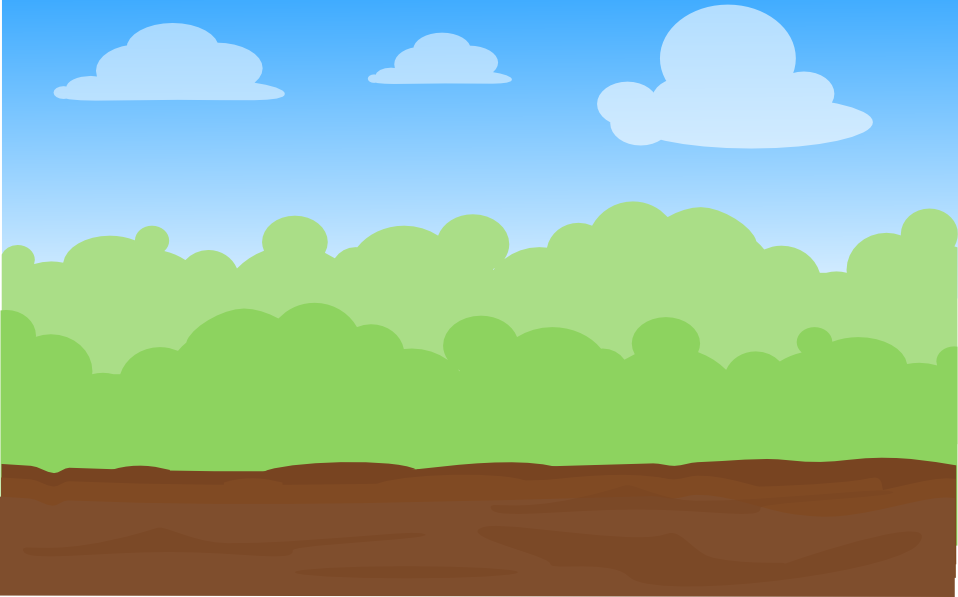
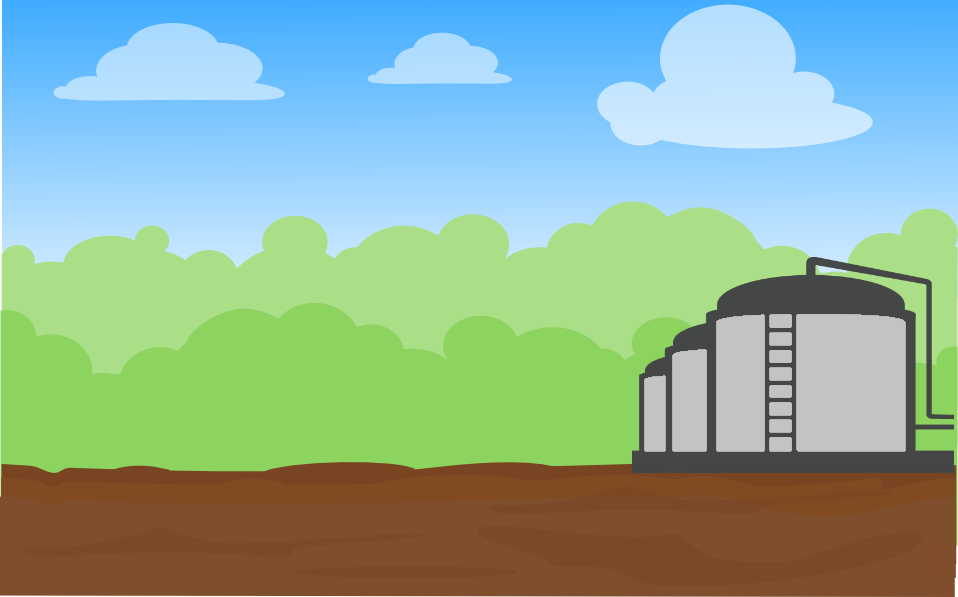
tank added

Changed region(s): [[0.6357, 0.4221, 0.999, 0.8141]]

diff --git a/Task4GUI/MainWindow.xaml b/Task4GUI/MainWindow.xaml
@@ -11,11 +11,12 @@
             <ColumnDefinition Width="665*"/>
             <ColumnDefinition Width="129*"/>
         </Grid.ColumnDefinitions>
-        <Canvas Margin="10,10,7.8,10">
+        <Canvas x:Name="MainCanvas" Margin="10,10,7.8,10">
             <Canvas.Background>
                 <ImageBrush ImageSource="Resources/back.png"></ImageBrush>
             </Canvas.Background>
         </Canvas>
+        <ProgressBar x:Name="TankStatusPb" Grid.Column="0" Margin="10,10,7.8,0" Height="28" VerticalAlignment="Top"/>
         <Canvas x:Name="PumpsCanv" Grid.Column="0" Margin="10,0,7.8,73" Height="107" VerticalAlignment="Bottom"/>
         <Button x:Name="AddPumpBtn" Content="Add pump"  Height="28" Click="AddPumpBtn_Click" Margin="10.2,10,9.6,0" Grid.Column="1" VerticalAlignment="Top"/>
         <Button x:Name="AddMechanic" Content="Add mechanic"  Height="28" Margin="10.2,38,9.6,0" Grid.Column="1" VerticalAlignment="Top" Click="AddMechanic_Click"/>

diff --git a/Task4GUI/MainWindow.xaml.cs b/Task4GUI/MainWindow.xaml.cs
@@ -26,32 +26,39 @@ namespace Task4GUI
     {
         List<PumpStationUI> pumpList = new List<PumpStationUI>();
         List<MechanicUI> mechanicks = new List<MechanicUI>();
+        private OilTankUI tank;
         private VisualElementsFactory _uiFactory = new VisualElementsFactory(SynchronizationContext.Current);
         public MainWindow()
         {
-            InitializeComponent();
+           InitializeComponent();
+           InitOilTank();
         }
 
         private int _counter;
         private void AddPumpBtn_Click(object sender, RoutedEventArgs e)
         {
-            PumpStation st = new PumpStation();
+            PumpStation st = new PumpStation()
+            {
+                Tank = tank.LogicObj
+            };
             Thread th = new Thread(st.StartWork);
-
+            st.Tank.IsFull += ()=>{st.StopWork();};
             var pumpStation = _uiFactory.CreatePumpStationUI(_counter++, st);
-            PumpsCanv.Children.Add(pumpStation.Image);
+            PumpsCanv.Children.Add(pumpStation.VisualElement);
             pumpList.Add(pumpStation);
 
             st.Broken += St_Broken;
             th.Start();
         }
 
+       
+
         private void St_Broken(PumpStation sender)
         {
             var m = mechanicks.Find(x => !x.LogicObj.IsBusy);
             if (m != null)
             {
-                new Task(() => m.LogicObj.FixObject(sender)).Start();
+                new Task(() => m.LogicObj.DoWork(sender)).Start();
                 var uiObject = pumpList.Find(x => x.LogicObj.Equals(sender));
                 m.MoveTo(uiObject);
             }
@@ -64,7 +71,7 @@ namespace Task4GUI
             MechanicUI mec = new MechanicUI(m, SynchronizationContext.Current);
             m.IsFree += M_IsFree;
             mechanicks.Add(mec);
-            PumpsCanv.Children.Add(mec.Image);
+            PumpsCanv.Children.Add(mec.VisualElement);
         }
 
         private void M_IsFree(Mechanic sender)
@@ -72,11 +79,18 @@ namespace Task4GUI
             var needToRepair = pumpList.Find(x => x.Station.IsBroken);
             if (needToRepair != null && !needToRepair.Station.IsFixing)
             {
-                new Task(() => sender.FixObject(needToRepair.Station)).Start();
+                new Task(() => sender.DoWork(needToRepair.Station)).Start();
                 var m = mechanicks.Find(x => x.LogicObj.Equals(sender));
                 m.MoveTo(needToRepair);
             }
 
+        }
+
+        private void InitOilTank()
+        {
+            tank = new OilTankUI(new OilTank(100), SynchronizationContext.Current);
+            Thread th = new Thread(tank.Init);
+            th.Start(TankStatusPb);
         }
     }
 }

diff --git a/libVisual/Elements/MechanicUI.cs b/libVisual/Elements/MechanicUI.cs
@@ -21,19 +21,19 @@ namespace libVisual.Elements
         public MechanicUI(Mechanic obj, SynchronizationContext context) : base(obj, context)
         {
             obj.IsFree += Mec_IsFree;
-            Image =
+            VisualElement =
                 new Image()
                 {
                     Height = 80
                 };
-            AnimationBehavior.SetSourceUri(Image, new Uri("pack://application:,,,/Resources/mechanic_idle.gif"));
+            AnimationBehavior.SetSourceUri((Image)VisualElement, new Uri("pack://application:,,,/Resources/mechanic_idle.gif"));
         }
 
         private void Mec_IsFree(Mechanic sender)
         {
             Context.Post(s =>
             {
-                AnimationBehavior.SetSourceUri(Image,
+                AnimationBehavior.SetSourceUri((Image)VisualElement,
                     new Uri("pack://application:,,,/Resources/mechanic_idle.gif"));
             }, null);
         }
@@ -42,16 +42,17 @@ namespace libVisual.Elements
         {
             Context.Post(s =>
             {
-                AnimationBehavior.SetSourceUri(Image, new Uri("pack://application:,,,/Resources/mechanic_run.gif"));
+                var o = (Image) VisualElement;
+                AnimationBehavior.SetSourceUri(o, new Uri("pack://application:,,,/Resources/mechanic_run.gif"));
                 var anim = new ThicknessAnimation();
-                var transform = new ScaleTransform {ScaleX = Image.Margin.Left > obj.Image.Margin.Left ? -1 : 1};
-                Image.RenderTransform = transform;
-                var to = obj.Image.Margin;
+                var transform = new ScaleTransform {ScaleX = o.Margin.Left > ((Image)obj.VisualElement).Margin.Left ? -1 : 1};
+                VisualElement.RenderTransform = transform;
+                var to = ((Image)obj.VisualElement).Margin;
                 to.Left += 80;
-                anim.From = Image.Margin;
+                anim.From = ((Image)VisualElement).Margin;
                 anim.To = to;
                 anim.Duration = TimeSpan.FromSeconds(1.5);
-                Image.BeginAnimation(FrameworkElement.MarginProperty, anim);
+                VisualElement.BeginAnimation(FrameworkElement.MarginProperty, anim);
             }, null);
         }
 

diff --git a/libTask4/OilTank.cs b/libTask4/OilTank.cs
@@ -10,12 +10,13 @@ namespace libTask4
 {
     public class OilTank : Item
     {
-        public double Capacity { get; set; }
-        public double CurrentVolume { get; set; }
+        public double Capacity { get; private set; }
+        public double CurrentVolume { get; private set; }
         public delegate void OilTankEventHandler();
 
         public event OilTankEventHandler IsFull;
         public event OilTankEventHandler IsEmpty;
+        public event OilTankEventHandler Added;
 
         public OilTank(double capacity)
         {
@@ -25,12 +26,14 @@ namespace libTask4
         public void AddOil(double amount, out double extra)
         {
             extra = 0;
+            Added?.Invoke();
             if (CurrentVolume + amount > Capacity)
             {
                 CurrentVolume += amount;
             }
             else
             {
+                CurrentVolume = Capacity;
                 extra = CurrentVolume + amount - Capacity;
                 IsFull?.Invoke();
             }
@@ -38,8 +41,9 @@ namespace libTask4
 
         public double GetAll()
         {
-            IsEmpty?.Invoke();
             CurrentVolume = 0;
+            IsEmpty?.Invoke();
+
             return CurrentVolume;
         }
 

diff --git a/libVisual/Elements/PumpStationUI.cs b/libVisual/Elements/PumpStationUI.cs
@@ -18,12 +18,12 @@ namespace libVisual.Elements
         public PumpStation Station { get; set; }
         public PumpStationUI(int n, PumpStation st, SynchronizationContext context) : base(st, context)
         {
-            Image = new Image()
+            VisualElement = new Image()
             {
                 Margin = new Thickness(n * 250, 0, 0, 0),
                 Height = 180
             };
-            AnimationBehavior.SetSourceUri(Image, new Uri("pack://application:,,,/Resources/pump.gif"));
+            AnimationBehavior.SetSourceUri((Image)VisualElement, new Uri("pack://application:,,,/Resources/pump.gif"));
             Station = st;
             Station.Broken += Station_Broken;
             Station.Fixed += Station_Fixed;
@@ -41,12 +41,12 @@ namespace libVisual.Elements
 
         private void StopAnimation()
         {
-            AnimationBehavior.GetAnimator(Image).Pause();
+            AnimationBehavior.GetAnimator(VisualElement).Pause();
         }
 
         private void StartAnimation()
         {
-            AnimationBehavior.GetAnimator(Image).Play();
+            AnimationBehavior.GetAnimator(VisualElement).Play();
         }
     }
 }

diff --git a/libVisual/Elements/TankUI.cs b/libVisual/Elements/TankUI.cs
@@ -1,0 +1,34 @@
+using System;
+using System.Collections.Generic;
+using System.Linq;
+using System.Text;
+using System.Threading;
+using System.Threading.Tasks;
+using System.Windows.Controls;
+using libTask4;
+using libTask4.Interfaces;
+
+namespace libVisual.Elements
+{
+    public class OilTankUI : ElementUI<OilTank>
+    {
+        public OilTankUI(OilTank obj, SynchronizationContext context) : base(obj, context)
+        {
+        }
+
+        public void Init(object o)
+        {
+            Context.Post(s =>
+            {
+                VisualElement = (ProgressBar) o;
+                ((ProgressBar) o).Maximum = LogicObj.Capacity;
+                LogicObj.Added += LogicObj_Added;
+            }, null);
+        }
+
+        private void LogicObj_Added()
+        {
+            Context.Post(s => { ((ProgressBar) VisualElement).Value++; }, null);
+        }
+    }
+}

diff --git a/libTask4/PumpStation.cs b/libTask4/PumpStation.cs
@@ -3,14 +3,17 @@ using System.Collections.Generic;
 using System.Linq;
 using System.Runtime.InteropServices;
 using System.Text;
+using System.Threading;
 using System.Timers;
 using libTask4.Interfaces;
+using Timer = System.Timers.Timer;
 
 namespace libTask4
 {
     public class PumpStation : Item
     {
         public double Productivity { get; set; }
+        public OilTank Tank { get; set; }
 
         public delegate void PumpStationEventHandler(PumpStation sender);
         public event PumpStationEventHandler Broken;
@@ -35,11 +38,14 @@ namespace libTask4
                 IsBroken = true;
                 Broken?.Invoke(this);
             }
+            else
+            {
+                Tank.AddOil(1, out double extra);
+            }
         }
 
         public void StopWork()
         {
-            _t.Stop();
         }
 
         public override void Fix()

diff --git a/libTask4/Mechanic.cs b/libTask4/Mechanic.cs
@@ -1,21 +1,29 @@
 using System;
 using System.Collections.Generic;
 using System.Linq;
+using System.Security.Cryptography.X509Certificates;
 using System.Text;
 using System.Threading;
 using System.Threading.Tasks;
+using libTask4.Abstract;
 using libTask4.Interfaces;
 
 namespace libTask4
 {
-    public class Mechanic : Support
+    public class Mechanic : Worker
     {
         public TimeSpan TimeToFix { get; private set; } = TimeSpan.FromSeconds(5);
 
         public delegate void MechanickEventHandler(Mechanic sender);
         public event MechanickEventHandler IsFree;
+        
 
-        public void FixObject(Item obj)
+        public override void DoWork(Item target)
+        {
+            FixObject(target);
+        }
+
+        private void FixObject(Item obj)
         {
             obj.IsFixing = true;
             IsBusy = true;

diff --git a/libTask4/Properties/AssemblyInfo.cs b/libTask4/Properties/AssemblyInfo.cs
@@ -32,5 +32,5 @@ using System.Runtime.InteropServices;
 // Можно задать все значения или принять номер сборки и номер редакции по умолчанию.
 // используя "*", как показано ниже:
 // [assembly: AssemblyVersion("1.0.*")]
-[assembly: AssemblyVersion("1.0.24.303")]
-[assembly: AssemblyFileVersion("1.0.0.303")]
+[assembly: AssemblyVersion("1.0.35.304")]
+[assembly: AssemblyFileVersion("1.0.0.304")]

diff --git a/libVisual/Properties/AssemblyInfo.cs b/libVisual/Properties/AssemblyInfo.cs
@@ -32,5 +32,5 @@ using System.Runtime.InteropServices;
 // Можно задать все значения или принять номер сборки и номер редакции по умолчанию.
 // используя "*", как показано ниже:
 // [assembly: AssemblyVersion("1.0.*")]
-[assembly: AssemblyVersion("1.0.73.303")]
-[assembly: AssemblyFileVersion("1.0.0.303")]
+[assembly: AssemblyVersion("1.0.90.304")]
+[assembly: AssemblyFileVersion("1.0.0.304")]

diff --git a/Task4GUI/Properties/AssemblyInfo.cs b/Task4GUI/Properties/AssemblyInfo.cs
@@ -51,5 +51,5 @@ using System.Windows;
 // Можно задать все значения или принять номер сборки и номер редакции по умолчанию.
 // используя "*", как показано ниже:
 // [assembly: AssemblyVersion("1.0.*")]
-[assembly: AssemblyVersion("1.0.103.303")]
-[assembly: AssemblyFileVersion("1.0.0.303")]
+[assembly: AssemblyVersion("1.0.131.304")]
+[assembly: AssemblyFileVersion("1.0.0.304")]

diff --git a/libTask4/CarTanker.cs b/libTask4/CarTanker.cs
@@ -1,0 +1,18 @@
+using System;
+using System.Collections.Generic;
+using System.Linq;
+using System.Text;
+using System.Threading.Tasks;
+using libTask4.Abstract;
+using libTask4.Interfaces;
+
+namespace libTask4
+{
+    public class CarTanker : Service
+    {
+        public override void DoWork(Item target)
+        {
+            throw new NotImplementedException();
+        }
+    }
+}
